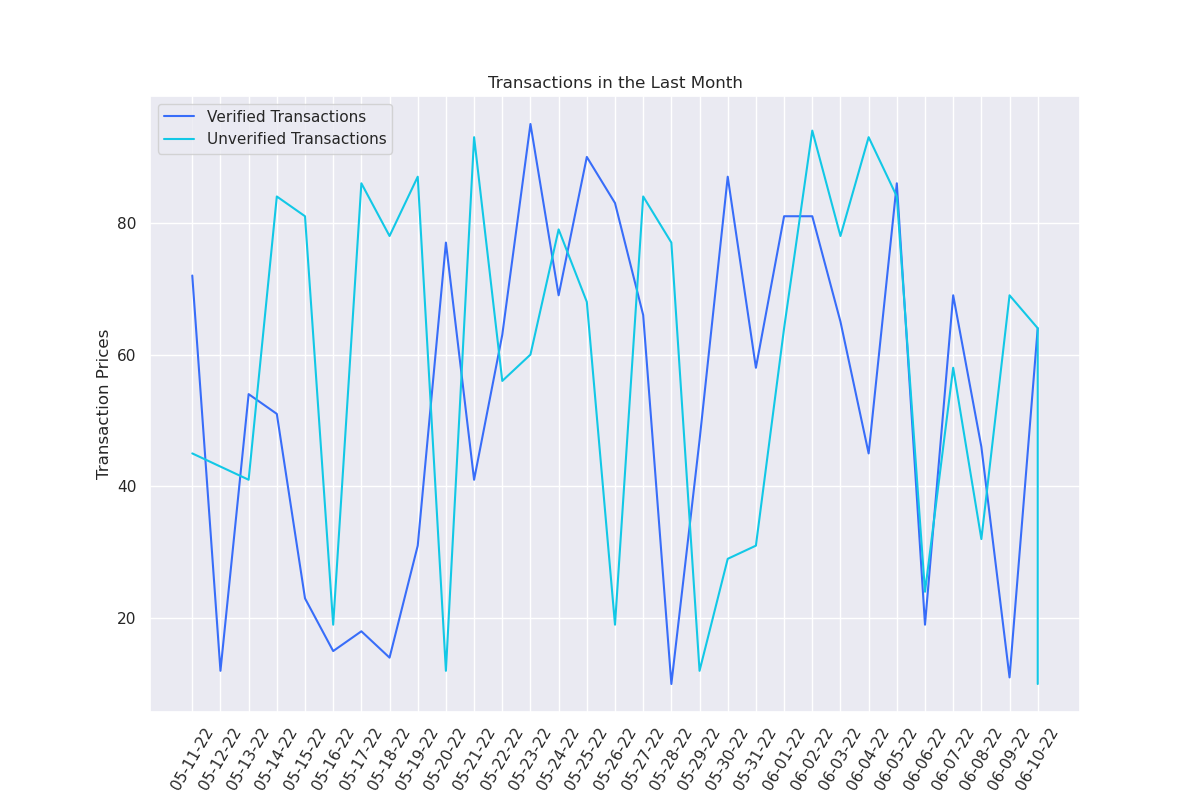
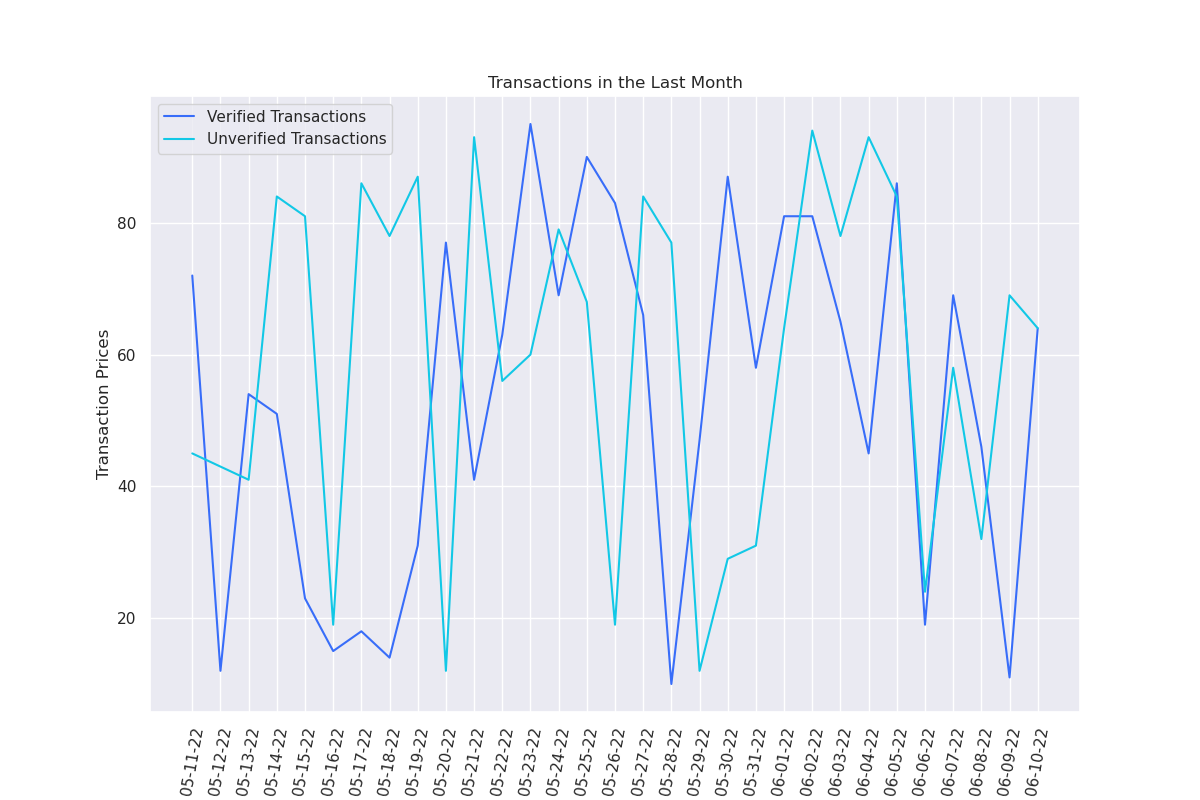
cleaning up visualization

Changed region(s): [[0.1233, 0.9062, 0.8942, 1.0]]

diff --git a/api/logic/visualize.py b/api/logic/visualize.py
@@ -1,6 +1,5 @@
 import matplotlib.pyplot as plt
 import seaborn as sns
-from datetime import datetime, timedelta
 from dateutil import parser
 
 def logic_visualize_transaction(verified, unverified):
@@ -17,7 +16,7 @@ def logic_visualize_transaction(verified, unverified):
 
     plt.plot([dt.strftime('%m-%d-%y') for dt in v_dates], v_prices, label='Verified Transactions')
     plt.plot([dt.strftime('%m-%d-%y') for dt in u_dates], u_prices, label='Unverified Transactions')
-    plt.gca().xaxis.set_tick_params(rotation = 60)  
+    plt.gca().xaxis.set_tick_params(rotation = 80)  
     plt.title('Transactions in the Last Month')
     plt.ylabel('Transaction Prices')
     plt.legend()
